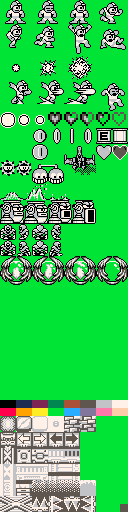
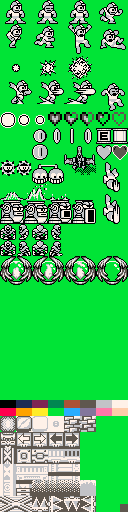
* Dash down animation. * Removed Dash up. * Spawn rolley enemy via level. * Fix bug with dashing down next to wall causing bouce. * Cam shake on down dash hitting floor.

Changed region(s): [[0.7812, 0.3125, 0.9375, 0.4375]]

diff --git a/mbh-platformer/mbh-platformer/Game1.cs b/mbh-platformer/mbh-platformer/Game1.cs
@@ -608,7 +608,7 @@ namespace mbh_platformer
 
             protected bool has_rock_armor = false;
 
-            public badguy()
+            public badguy(float dir)
             {
                 anims = new Dictionary<string, anim>()
                 {
@@ -633,7 +633,9 @@ namespace mbh_platformer
                 cw = 16;
                 ch = 16;
 
-                dx = -0.5f;
+                dx = 0.5f * dir;
+
+                flipx = dir < 0;
 
                 stay_on = true;
             }
@@ -897,7 +899,7 @@ namespace mbh_platformer
 
         public class chopper_body : badguy
         {
-            public chopper_body()
+            public chopper_body() : base(0)
             {
                 anims = new Dictionary<string, anim>()
                 {
@@ -921,7 +923,7 @@ namespace mbh_platformer
 
         public class chopper : badguy
         {
-            public chopper()
+            public chopper() : base(0)
             {
                 flying = new flying_def()
                 {
@@ -989,7 +991,7 @@ namespace mbh_platformer
 
         public class lava_splash : badguy
         {
-            public lava_splash()
+            public lava_splash(float dir) : base(dir)
             {
                 anims = new Dictionary<string, anim>()
                 {
@@ -1066,7 +1068,7 @@ namespace mbh_platformer
 
         public class steam_splash : badguy
         {
-            public steam_splash()
+            public steam_splash() : base(0)
             {
                 anims = new Dictionary<string, anim>()
                 {
@@ -1171,7 +1173,7 @@ namespace mbh_platformer
                         inst.objs_remove_queue.Add(this);
                         return;
                     }
-                    inst.objs_add_queue.Add(new lava_splash() { x = x, y = y, flipx = dir < 0 ? true : false, /*, dx = rnd(1) * dir*/});
+                    inst.objs_add_queue.Add(new lava_splash(dir) { x = x, y = y, /*, dx = rnd(1) * dir*/});
                 }
 
 
@@ -1183,7 +1185,7 @@ namespace mbh_platformer
         {
             int idle_ticks = 0;
 
-            public lava_blaster(float dir)
+            public lava_blaster(float dir) : base(dir)
             {
 
                 anims = new Dictionary<string, anim>()
@@ -1242,8 +1244,6 @@ namespace mbh_platformer
                 ch = 24;
 
                 dx = 0;
-
-                flipx = dir < 0;
 
                 has_rock_armor = true;
 
@@ -1898,6 +1898,19 @@ namespace mbh_platformer
                         }
                     },
                     {
+                        "dash_down",
+                        new anim()
+                        {
+                            h =32,
+                            ticks=5,//how long is each frame shown.
+                            frames= new int[][] 
+                            {
+                                create_anim_frame(332, 4, 4),
+                                create_anim_frame(396, 4, 4),
+                            },
+                        }
+                    },
+                    {
                         "taking_hit",
                         new anim()
                         {
@@ -2046,13 +2059,14 @@ namespace mbh_platformer
 
                     // First check up and down to let that take
                     // presendence, since that feels better.
-                    if (bu)
-                    {
-                        dash_dir.Y = -1;
-                        // Clear the x momentum.
-                        dx = 0;
-                    }
-                    else if (bd)
+                    //if (bu)
+                    //{
+                    //    dash_dir.Y = -1;
+                    //    // Clear the x momentum.
+                    //    dx = 0;
+                    //}
+                    //else 
+                    if (bd)
                     {
                         dash_dir.Y = 1;
                         dx = 0;
@@ -2159,7 +2173,7 @@ namespace mbh_platformer
                 Vector2 hit_point = new Vector2();
                 if (inst.collide_side(self, out hit_point))
                 {
-                    if (is_dashing)
+                    if (is_dashing && dash_dir.X != 0)
                     {
                         start_dash_bounce(ref hit_point);
                         is_dashing = false;
@@ -2309,6 +2323,7 @@ namespace mbh_platformer
                     // Are we downward dashing?
                     if (dash_dir.Y > 0 & is_dashing)
                     {
+                        inst.game_cam.shake(10, 3);
                         start_dash_bounce(ref hit_point);
                     }
                 }
@@ -2395,7 +2410,14 @@ namespace mbh_platformer
                     }
                     else
                     {
-                        next_anim = "dash_air";
+                        if (dash_dir.Y != 0)
+                        {
+                            next_anim = "dash_down";
+                        }
+                        else
+                        {
+                            next_anim = "dash_air";
+                        }
                     }
                 }
 
@@ -3667,6 +3689,16 @@ namespace mbh_platformer
                                 {
                                     objs_add_queue.Add(
                                             new steam_spawner()
+                                            {
+                                                x = (float)o.X + ((float)o.Width * 0.5f),
+                                                y = (float)o.Y + ((float)o.Height * 0.5f),
+                                            }
+                                        );
+                                }
+                                else if (string.Compare(o.Type, "spawn_rolley", true) == 0)
+                                {
+                                    objs_add_queue.Add(
+                                            new badguy(Int32.Parse(o.Properties["dir"]))
                                             {
                                                 x = (float)o.X + ((float)o.Width * 0.5f),
                                                 y = (float)o.Y + ((float)o.Height * 0.5f),
